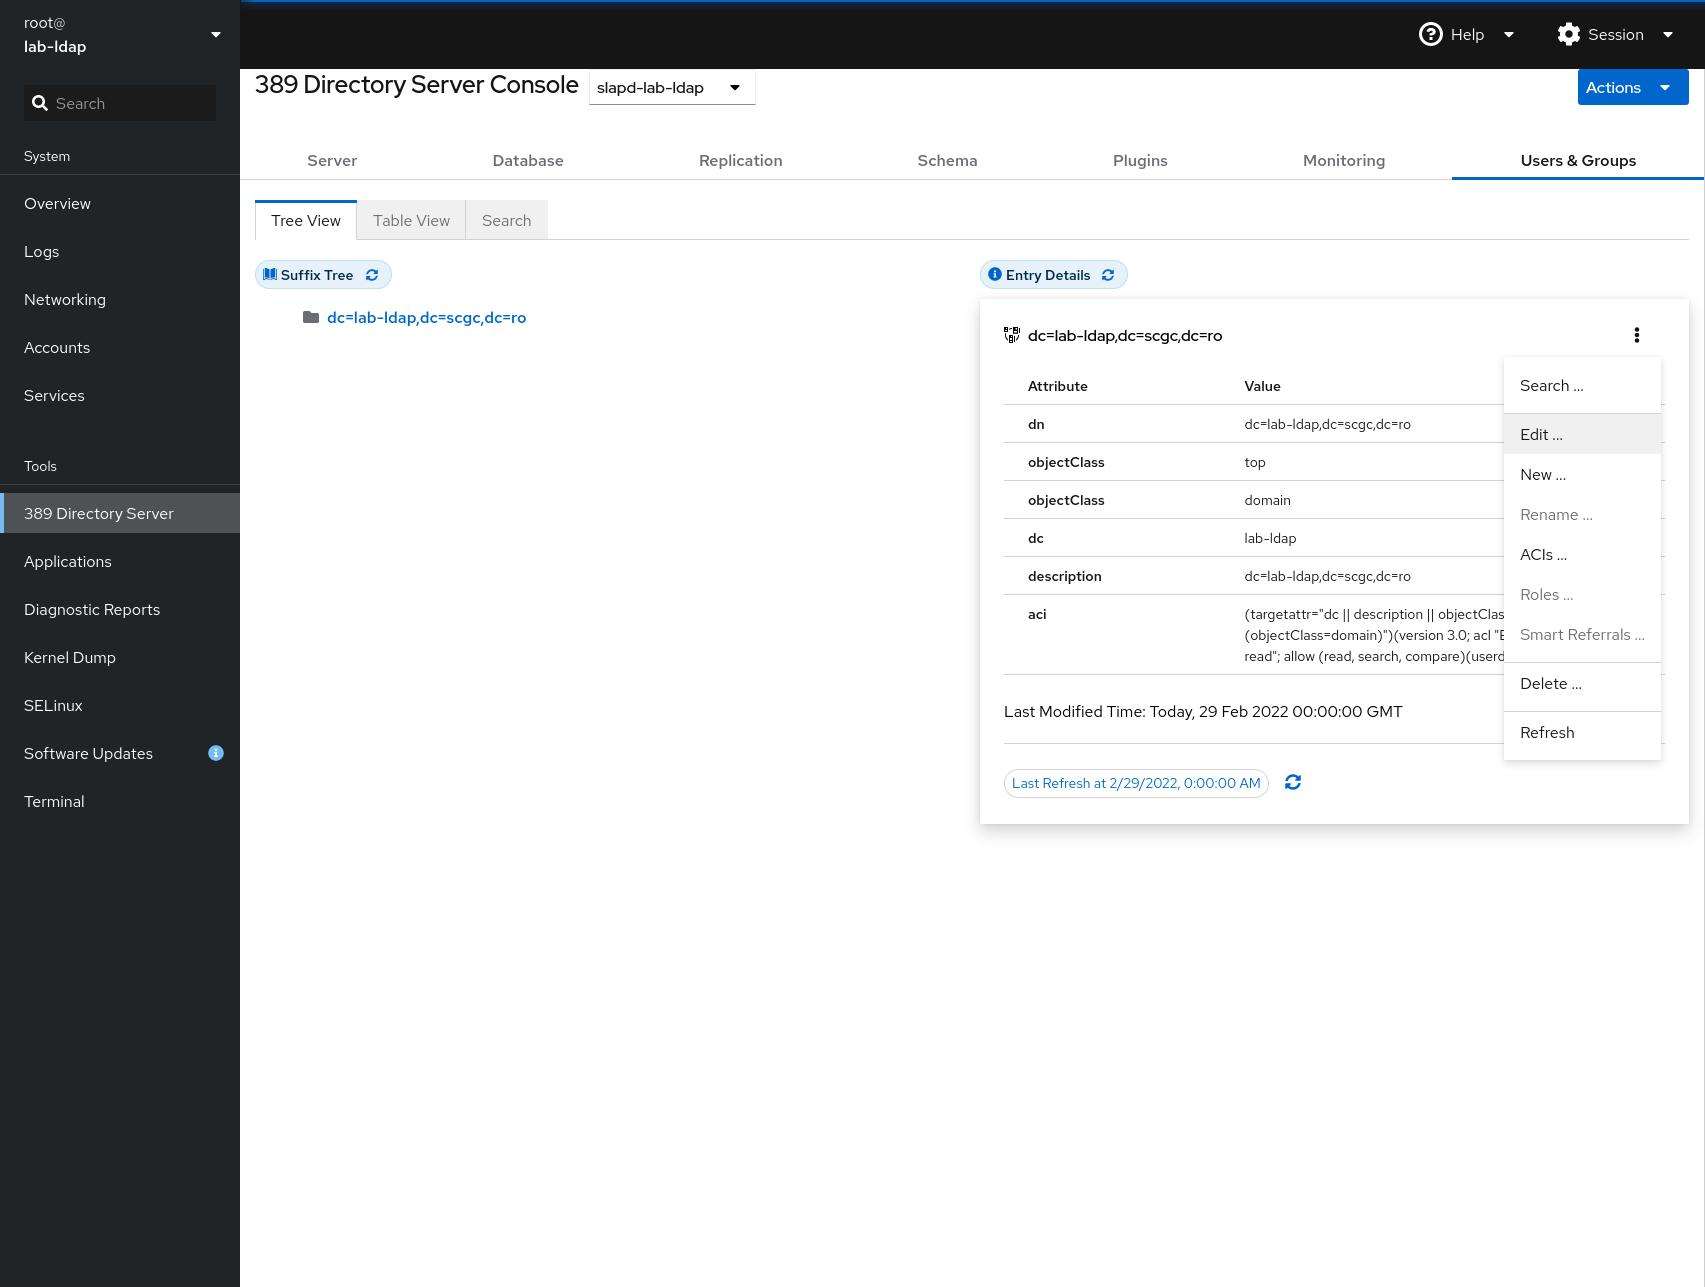
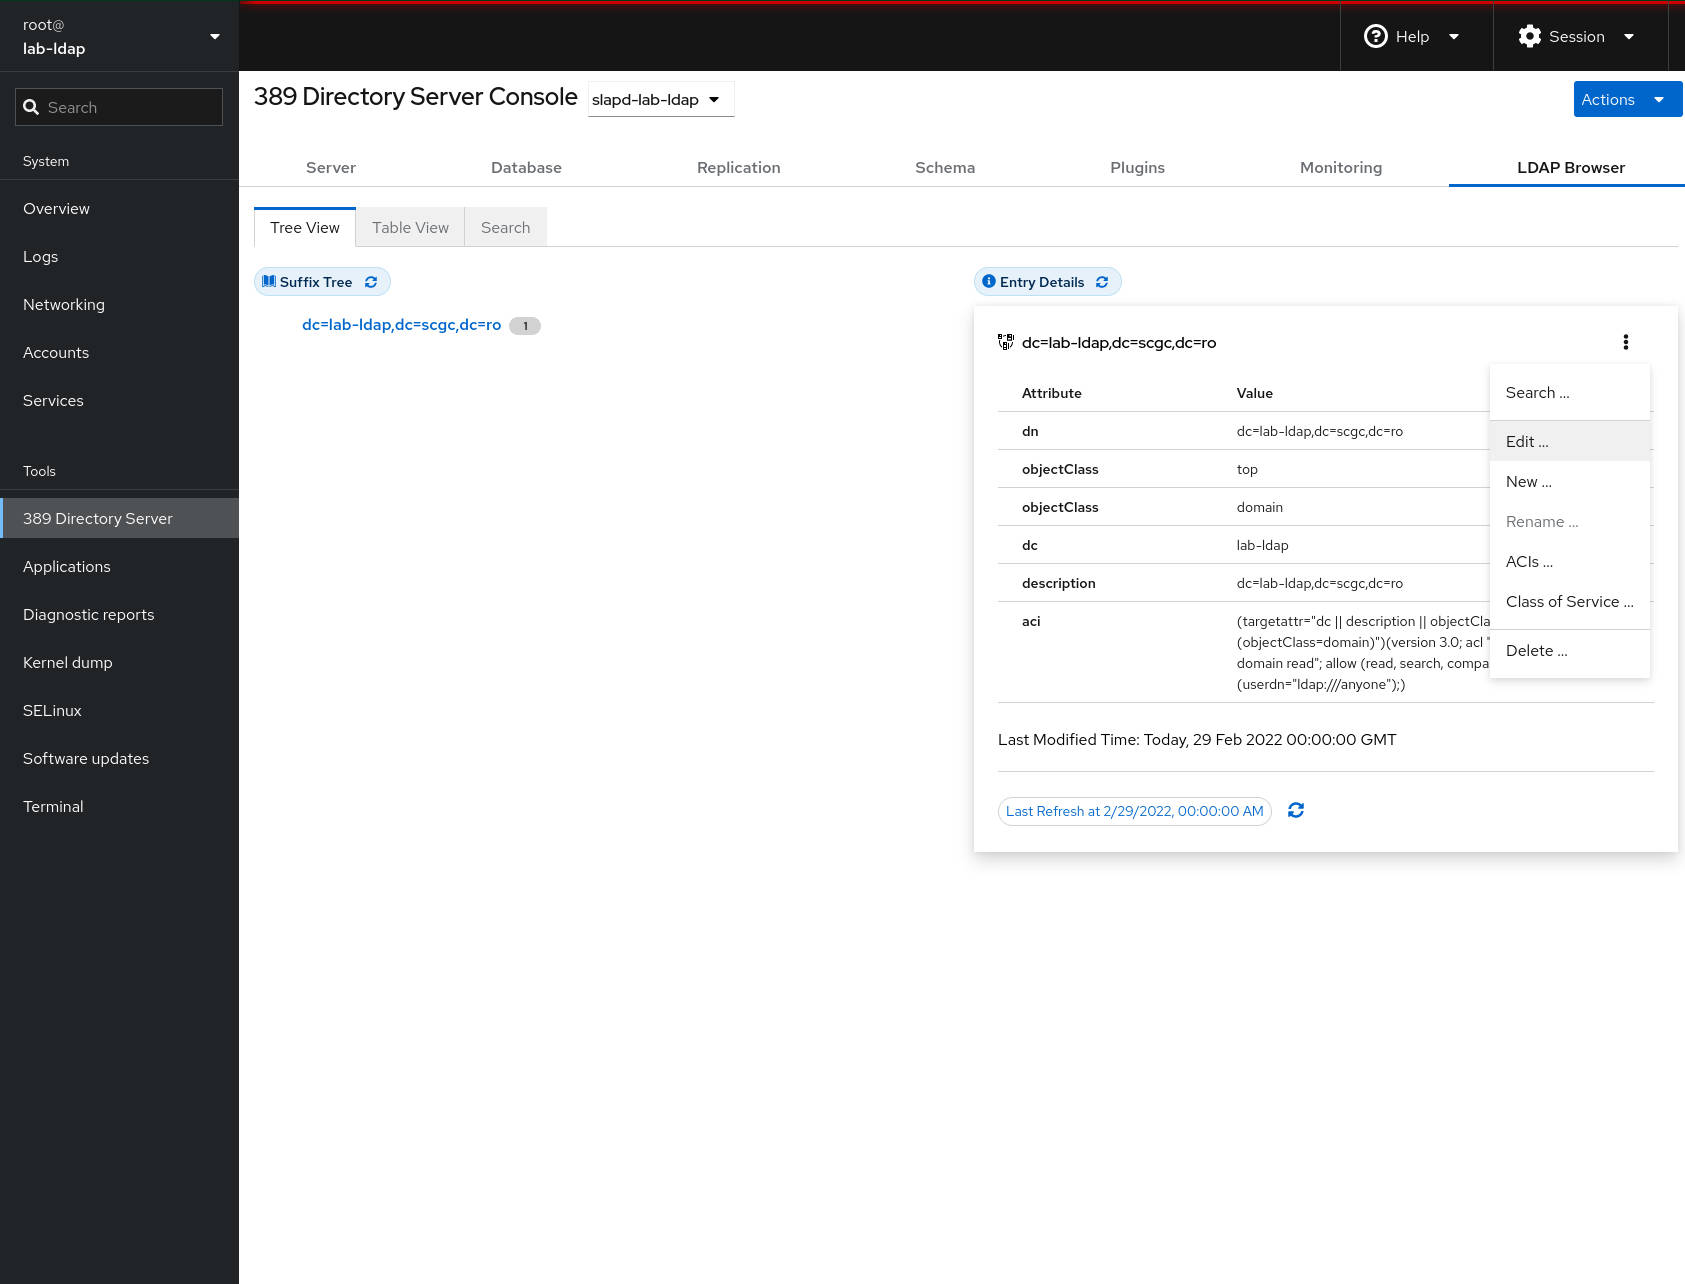
[Lab/LDAP] Update 389ds install and screenshots
The 389 modules have been abandoned and the installation is now
perfromed through a dnf copr repository. Update the package and
instructions to reflect the changes.

Also update the login screenshot to reflect the change towards Alma
Linux instead of Centos Stream 8.

diff --git a/website/docs/common/ldap/_ldap_basic.md b/website/docs/common/ldap/_ldap_basic.md
@@ -36,25 +36,17 @@ Centos is [389-ds][]. It is the upstream project / free alternative to
 the RedHat Directory Server project. In order to set it up, we will need to
 install it and all of its dependencies.
 
-The required packages are not distributed in the default Centos repositories,
-so we will need to add the Extra Packages for Enterprise Linux (EPEL)
-repository. You can install it using the command below:
-
-```bash
-[student@lab-ldap ~]$ sudo dnf install epel-release
-```
-
 The configuration of the directory service will be handled using a `cockpit`
 plugin which will need to be installed alongside the other directory server
 packages. Cockpit is a web interface that allows you to configure the system
 and even run commands on a RedHat-based operating system.
 
-For this lab you will need to install the `389-directory-service` module,
-`cockpit` and some additional packages. You can use the commands below to
-install them:
+For this lab you will need to install the `389-directory-service` module from
+the `@389` group, `cockpit` and some additional packages. You can use the
+commands below to install them:
 
 ```bash
-[student@lab-ldap ~]$ sudo dnf module install 389-directory-server:stable/default
+[student@lab-ldap ~]$ sudo dnf copr enable -y @389ds/389-directory-server
 [student@lab-ldap ~]$ sudo dnf install 389-ds-base cockpit cockpit-389-ds
 ```
 

diff --git a/website/docs/common/ldap/_ldap_cockpit.md b/website/docs/common/ldap/_ldap_cockpit.md
@@ -136,7 +136,7 @@ users and groups, we will focus on how this information can be managed.
 
 ### Adding users to LDAP
 
-We will begin by adding users to LDAP. First, navigate to the `Users & Groups`
+We will begin by adding users to LDAP. First, navigate to the `LDAP Browser`
 tab and then click on the `dc=lab-ldap,dc=scgc,dc=ro` entry in the `Suffix
 Tree`. A new view that contains the entry details will appear, with some
 information on the database.
